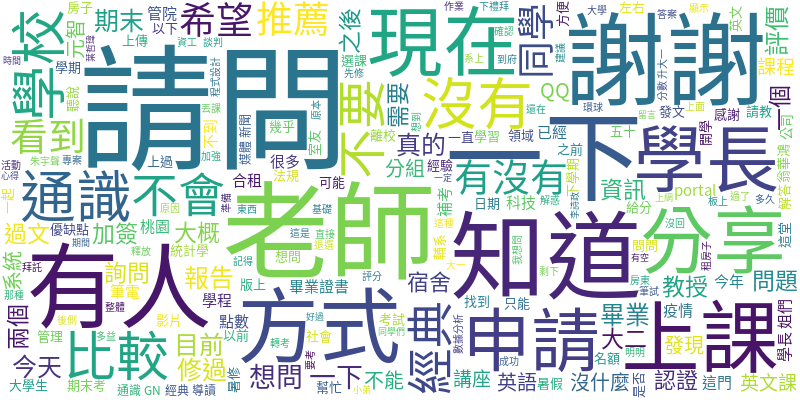
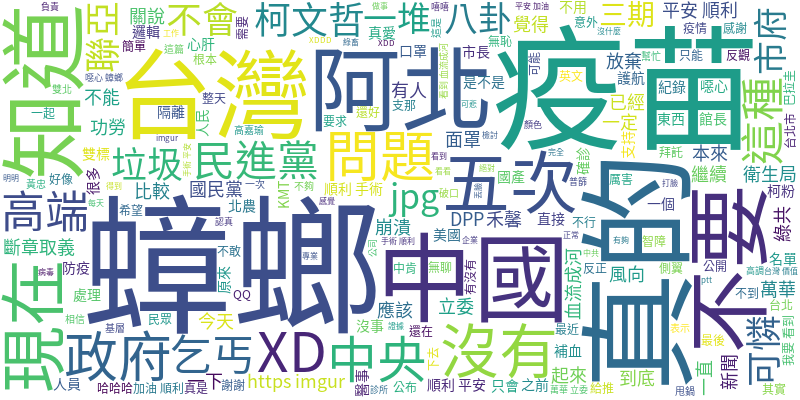
Finish Complete
Finish Load Ptt ptt.py
Finish Load Dcard dcard.py
Finish Load NEWS API news.py

GUI complete

diff --git a/test/test.py b/test/test.py
@@ -1,52 +1,32 @@
-from PyPtt import PTT
-import sys
+import requests
+import jieba
+import string
+from wordcloud import WordCloud
+import matplotlib.pyplot as plt
 
 
 if __name__ == '__main__':
-    ptt_id = "*"
-    password = "*"
+    text = requests.get("https://www.dcard.tw/service/api/v2/posts?popular=true&limit=100").json()
 
-    ptt_bot = PTT.API()
-    try:
-        ptt_bot.login(ptt_id, password)
-    except PTT.exceptions.LoginError:
-        ptt_bot.log('登入失敗')
-        sys.exit()
-    except PTT.exceptions.WrongIDorPassword:
-        ptt_bot.log('帳號密碼錯誤')
-        sys.exit()
-    except PTT.exceptions.LoginTooOften:
-        ptt_bot.log('請稍等一下再登入')
-        sys.exit()
-    ptt_bot.log('登入成功')
+    # for i in text[0].keys():
+    #     print(i)
 
-    if ptt_bot.unregistered_user:
-        print('未註冊使用者')
-        if ptt_bot.process_picks != 0:
-            print(f'註冊單處理順位 {ptt_bot.process_picks}')
+    words = []
+    for item in text:
+        word_list = jieba.cut(item["title"])
+        for i in word_list:
+            if len(i) >= 2 and i[0] not in string.ascii_letters and i[0] not in string.digits and i[0] not in string.punctuation:
+                words.append(i)
+    print(words)
 
-    if ptt_bot.registered_user:
-        print('已註冊使用者')
+    # for i in range(len(words)):
+    #     words[i] = words[i].encode("big5")
 
-    # call ptt_bot other api
-    post_info = ptt_bot.get_post(
-        'Python',
-        post_index=7486)
-    print(post_info.content)
+    my_wordcloud = WordCloud(background_color='white', font_path="../api/font/SourceHanSansTW-Regular.otf")
+    img = my_wordcloud.generate(" ".join(words))
 
-    test_board_list = [
-        'Wanted',
-        'Gossiping',
-        'Test',
-        'Stock',
-        'movie',
-    ]
+    plt.imshow(my_wordcloud)
+    plt.axis("off")
+    plt.show()
 
-    for test_board in test_board_list:
-        index = ptt_bot.get_newest_index(
-            PTT.data_type.index_type.BBS,
-            board=test_board
-        )
-        print(f'{test_board} 最新文章編號 {index}')
-
-    ptt_bot.logout()
+    my_wordcloud.to_file("cloud.png")

diff --git a/window.py b/window.py
@@ -147,15 +147,9 @@ class Window(tk.Frame):
 
     def place_wordcloud_thread(self, **kwargs):
         self.genBT["state"] = "disabled"
-        if kwargs["api"] == "dcard":
-            self.newsBT["state"] = "disabled"
-            self.pttBT["state"] = "disabled"
-        elif kwargs["api"] == "news":
-            self.dcardBT["state"] = "disabled"
-            self.pttBT["state"] = "disabled"
-        elif kwargs["api"] == "ptt":
-            self.dcardBT["state"] = "disabled"
-            self.newsBT["state"] = "disabled"
+        self.dcardBT["state"] = "disabled"
+        self.newsBT["state"] = "disabled"
+        self.pttBT["state"] = "disabled"
 
         self.message_bar["text"] = "Loading data..."
         api.gen_wordcloud(api.get_data(**kwargs))
